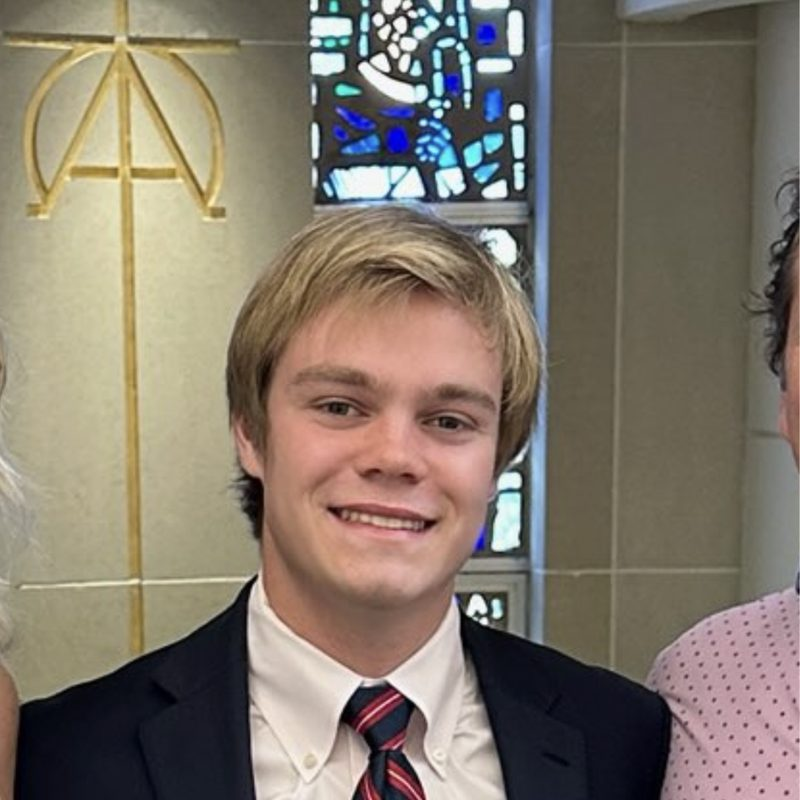
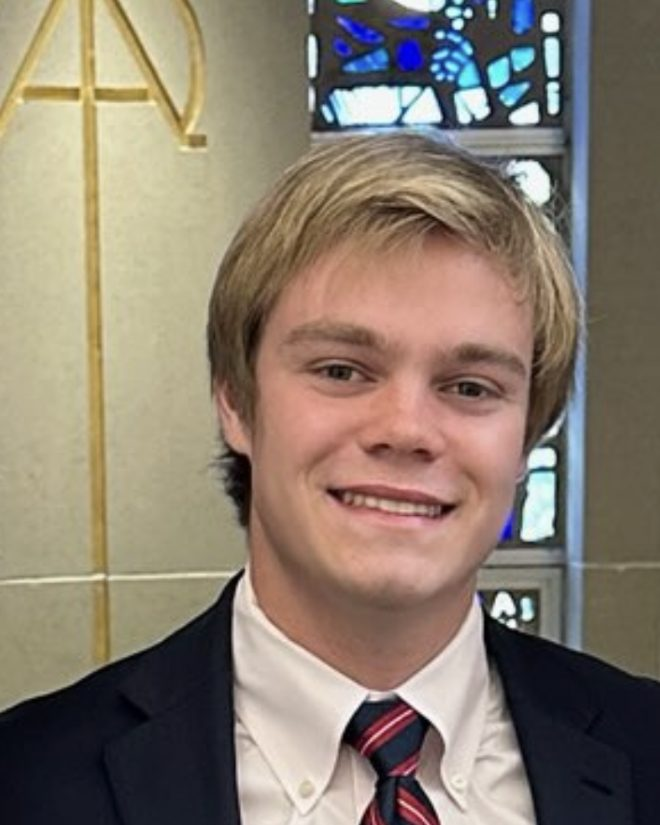
Recrop headshot; move Dorm Scoreboard to #4

diff --git a/index.html b/index.html
@@ -13,7 +13,7 @@
 <section id="about" class="about"><div class="about-txt reveal"><h2>About</h2>
 <p>I build hardware and software, mostly on my own time. My projects include an autonomous payload-delivery drone and a published Windows app. I&#x27;m looking for aerospace, maritime, and manufacturing engineering internships.</p>
 <ul class="chips"><li>Onshape</li><li>3D printing</li><li>Soldering</li><li>Raspberry Pi</li><li>Arduino</li><li>Python</li><li>Excel</li><li>AI coding tools</li></ul></div><img class="headshot reveal" src="media/site/headshot.jpg" alt="Ben Ratterree"></section>
-<section id="projects" class="projects"><h2 class="sec reveal">Projects</h2><a class="prow reveal" href="projects/drone.html"><div class="pimg"><img src="media/drone/1.jpg" alt="Autonomous Payload Delivery Drone" loading="lazy"></div><div class="ptxt"><span class="num">01</span><h3>Autonomous Payload Delivery Drone</h3><p class="meta">June 2026 – Present · In progress · Personal project</p><p>I built this drone from scratch using purchased parts and parts I designed and built using 3D printing/CAD.</p><span class="more">View project <span aria-hidden="true">→</span></span></div></a><a class="prow reveal" href="projects/earthrise.html"><div class="pimg"><img src="media/earthrise/1.jpg" alt="Earthrise" loading="lazy"></div><div class="ptxt"><span class="num">02</span><h3>Earthrise</h3><p class="meta">Published July 3, 2026 · Microsoft Store: https://apps.microsoft.com/detail/9N0VSG1P4VKQ</p><p>Earthrise is a Windows wallpaper app I published on the Microsoft Store. It combines public live satellite imagery with a computed starfield to make realistic desktop backgrounds.</p><span class="more">View project <span aria-hidden="true">→</span></span></div></a><a class="prow reveal" href="projects/pool.html"><div class="pimg"><img src="media/pool/1.jpg" alt="Arduino Pool Equipment Controller" loading="lazy"></div><div class="ptxt"><span class="num">03</span><h3>Arduino Pool Equipment Controller</h3><p class="meta">June–July 2025. Project completed and tested. Ran without flaws for at least 12 months</p><p>The official Pentair acid pump controller had burned out twice before on our pool due to an undersized wire carrying more current than it should have and instead of buying a 3rd $300 controller I built a full controller for under $60.</p><span class="more">View project <span aria-hidden="true">→</span></span></div></a><a class="prow reveal" href="projects/boat.html"><div class="pimg"><img src="media/boat/1.jpg" alt="Custom RC Boat" loading="lazy"></div><div class="ptxt"><span class="num">04</span><h3>Custom RC Boat</h3><p class="meta">August 2021–March 2022 · Personal project</p><p>I built a remote-control boat powered by a modified gas string-trimmer engine.</p><span class="more">View project <span aria-hidden="true">→</span></span></div></a><a class="prow reveal" href="projects/solar.html"><div class="pimg"><img src="media/solar/1.jpg" alt="Off-Grid Solar Lighting System" loading="lazy"></div><div class="ptxt"><span class="num">05</span><h3>Off-Grid Solar Lighting System</h3><p class="meta">April 2022 · Project for my Boy Scout troop’s trailer</p><p>I built a solar-powered, off-grid 12 V lighting system.</p><span class="more">View project <span aria-hidden="true">→</span></span></div></a><a class="prow reveal" href="projects/bike.html"><div class="pimg"><img src="media/bike/1.jpg" alt="Car Horn for My Bike with Custom Battery" loading="lazy"></div><div class="ptxt"><span class="num">06</span><h3>Car Horn for My Bike with Custom Battery</h3><p class="meta">2023 · Personal project</p><p>I put a car horn on my bicycle so I could honk at my friends and built a custom 18650 lithium-ion battery pack to power it.</p><span class="more">View project <span aria-hidden="true">→</span></span></div></a><a class="prow reveal" href="projects/scoreboard.html"><div class="pimg"><img src="media/scoreboard/1.jpg" alt="Wi-Fi Enabled Dorm Scoreboard" loading="lazy"></div><div class="ptxt"><span class="num">07</span><h3>Wi-Fi Enabled Dorm Scoreboard</h3><p class="meta">September 2025–May 2026.</p><p>I built 4 custom 7-segment displays in my dorm windows to display the Aggie football score and to be used as a clock in the off season.</p><span class="more">View project <span aria-hidden="true">→</span></span></div></a></section>
+<section id="projects" class="projects"><h2 class="sec reveal">Projects</h2><a class="prow reveal" href="projects/drone.html"><div class="pimg"><img src="media/drone/1.jpg" alt="Autonomous Payload Delivery Drone" loading="lazy"></div><div class="ptxt"><span class="num">01</span><h3>Autonomous Payload Delivery Drone</h3><p class="meta">June 2026 – Present · In progress · Personal project</p><p>I built this drone from scratch using purchased parts and parts I designed and built using 3D printing/CAD.</p><span class="more">View project <span aria-hidden="true">→</span></span></div></a><a class="prow reveal" href="projects/earthrise.html"><div class="pimg"><img src="media/earthrise/1.jpg" alt="Earthrise" loading="lazy"></div><div class="ptxt"><span class="num">02</span><h3>Earthrise</h3><p class="meta">Published July 3, 2026 · Microsoft Store: https://apps.microsoft.com/detail/9N0VSG1P4VKQ</p><p>Earthrise is a Windows wallpaper app I published on the Microsoft Store. It combines public live satellite imagery with a computed starfield to make realistic desktop backgrounds.</p><span class="more">View project <span aria-hidden="true">→</span></span></div></a><a class="prow reveal" href="projects/pool.html"><div class="pimg"><img src="media/pool/1.jpg" alt="Arduino Pool Equipment Controller" loading="lazy"></div><div class="ptxt"><span class="num">03</span><h3>Arduino Pool Equipment Controller</h3><p class="meta">June–July 2025. Project completed and tested. Ran without flaws for at least 12 months</p><p>The official Pentair acid pump controller had burned out twice before on our pool due to an undersized wire carrying more current than it should have and instead of buying a 3rd $300 controller I built a full controller for under $60.</p><span class="more">View project <span aria-hidden="true">→</span></span></div></a><a class="prow reveal" href="projects/scoreboard.html"><div class="pimg"><img src="media/scoreboard/1.jpg" alt="Wi-Fi Enabled Dorm Scoreboard" loading="lazy"></div><div class="ptxt"><span class="num">04</span><h3>Wi-Fi Enabled Dorm Scoreboard</h3><p class="meta">September 2025–May 2026.</p><p>I built 4 custom 7-segment displays in my dorm windows to display the Aggie football score and to be used as a clock in the off season.</p><span class="more">View project <span aria-hidden="true">→</span></span></div></a><a class="prow reveal" href="projects/boat.html"><div class="pimg"><img src="media/boat/1.jpg" alt="Custom RC Boat" loading="lazy"></div><div class="ptxt"><span class="num">05</span><h3>Custom RC Boat</h3><p class="meta">August 2021–March 2022 · Personal project</p><p>I built a remote-control boat powered by a modified gas string-trimmer engine.</p><span class="more">View project <span aria-hidden="true">→</span></span></div></a><a class="prow reveal" href="projects/solar.html"><div class="pimg"><img src="media/solar/1.jpg" alt="Off-Grid Solar Lighting System" loading="lazy"></div><div class="ptxt"><span class="num">06</span><h3>Off-Grid Solar Lighting System</h3><p class="meta">April 2022 · Project for my Boy Scout troop’s trailer</p><p>I built a solar-powered, off-grid 12 V lighting system.</p><span class="more">View project <span aria-hidden="true">→</span></span></div></a><a class="prow reveal" href="projects/bike.html"><div class="pimg"><img src="media/bike/1.jpg" alt="Car Horn for My Bike with Custom Battery" loading="lazy"></div><div class="ptxt"><span class="num">07</span><h3>Car Horn for My Bike with Custom Battery</h3><p class="meta">2023 · Personal project</p><p>I put a car horn on my bicycle so I could honk at my friends and built a custom 18650 lithium-ion battery pack to power it.</p><span class="more">View project <span aria-hidden="true">→</span></span></div></a></section>
 <section class="also reveal"><h2 class="sec">Beyond the workbench</h2><ul class="rules"><li>Eagle Scout, December 2025</li><li>Texas A&amp;M Sailing Team</li><li>FAA Student Pilot, 18 logged flight hours</li></ul></section>
 </main><footer id="contact"><div class="inner"><h2>Contact</h2>
 <p><a href="mailto:benratterree@tamu.edu">benratterree@tamu.edu</a></p>

diff --git a/projects/drone.html b/projects/drone.html
@@ -19,7 +19,7 @@
 
 </article>
 <div class="gal-wrap"><h2 class="sec">Photos</h2><div id="gallery" class="gallery"><figure class="reveal"><button type="button" aria-label="Enlarge photo 1"><img src="../media/drone/1.jpg" width="1600" height="1600" alt="Autonomous Payload Delivery Drone photo 1" loading="lazy"></button></figure><figure class="reveal"><button type="button" aria-label="Enlarge photo 2"><img src="../media/drone/2.jpg" width="1600" height="1600" alt="Dual GPS reduces the chance of GPS-loss-induced crash and increases positional accuracy, the GPS modules also have their own compasses bringing the total number to 3 which helps reduce compass error from high current in the motors." loading="lazy"></button><figcaption>Dual GPS reduces the chance of GPS-loss-induced crash and increases positional accuracy, the GPS modules also have their own compasses bringing the total number to 3 which helps reduce compass error from high current in the motors.</figcaption></figure><figure class="reveal"><button type="button" aria-label="Enlarge photo 3"><img src="../media/drone/3.jpg" width="1200" height="1600" alt="Early version of the drone only had one GPS and I put it on a mast to keep it away from electrical interference caused by the motors." loading="lazy"></button><figcaption>Early version of the drone only had one GPS and I put it on a mast to keep it away from electrical interference caused by the motors.</figcaption></figure></div></div>
-<nav class="pager"><a href="scoreboard.html"><small>Previous</small>Wi-Fi Enabled Dorm Scoreboard</a><a href="earthrise.html"><small>Next</small>Earthrise</a></nav>
+<nav class="pager"><a href="bike.html"><small>Previous</small>Car Horn for My Bike with Custom Battery</a><a href="earthrise.html"><small>Next</small>Earthrise</a></nav>
 </main><footer id="contact"><div class="inner"><h2>Contact</h2>
 <p><a href="mailto:benratterree@tamu.edu">benratterree@tamu.edu</a></p>
 <p><a href="https://www.linkedin.com/in/ben-ratterree-34564028a/" target="_blank" rel="noopener">LinkedIn</a></p>

diff --git a/projects/scoreboard.html b/projects/scoreboard.html
@@ -23,7 +23,7 @@
 
 </article>
 <div class="gal-wrap"><h2 class="sec">Photos</h2><div id="gallery" class="gallery"><figure class="reveal"><button type="button" aria-label="Enlarge photo 1"><img src="../media/scoreboard/1.jpg" width="1600" height="1200" alt="Wi-Fi Enabled Dorm Scoreboard photo 1" loading="lazy"></button></figure><figure class="reveal"><button type="button" aria-label="Enlarge photo 2"><img src="../media/scoreboard/2.jpg" width="1600" height="1600" alt="Relays for 2.5 of the displays." loading="lazy"></button><figcaption>Relays for 2.5 of the displays.</figcaption></figure><figure class="reveal"><button type="button" aria-label="Enlarge photo 3"><img src="../media/scoreboard/3.jpg" width="1200" height="1600" alt="The full compute and relay system." loading="lazy"></button><figcaption>The full compute and relay system.</figcaption></figure><figure class="reveal"><button type="button" aria-label="Enlarge photo 4"><img src="../media/scoreboard/4.jpg" width="1600" height="1600" alt="The damage from the faulty circuit board." loading="lazy"></button><figcaption>The damage from the faulty circuit board.</figcaption></figure></div></div>
-<nav class="pager"><a href="bike.html"><small>Previous</small>Car Horn for My Bike with Custom Battery</a><a href="drone.html"><small>Next</small>Autonomous Payload Delivery Drone</a></nav>
+<nav class="pager"><a href="pool.html"><small>Previous</small>Arduino Pool Equipment Controller</a><a href="boat.html"><small>Next</small>Custom RC Boat</a></nav>
 </main><footer id="contact"><div class="inner"><h2>Contact</h2>
 <p><a href="mailto:benratterree@tamu.edu">benratterree@tamu.edu</a></p>
 <p><a href="https://www.linkedin.com/in/ben-ratterree-34564028a/" target="_blank" rel="noopener">LinkedIn</a></p>

diff --git a/projects/pool.html b/projects/pool.html
@@ -24,7 +24,7 @@
 
 </article>
 <div class="gal-wrap"><h2 class="sec">Photos</h2><div id="gallery" class="gallery"><figure class="reveal"><button type="button" aria-label="Enlarge photo 1"><img src="../media/pool/1.jpg" width="1200" height="1600" alt="Arduino Pool Equipment Controller photo 1" loading="lazy"></button></figure><figure class="reveal"><button type="button" aria-label="Enlarge photo 2"><img src="../media/pool/2.jpg" width="1200" height="1600" alt="Arduino Pool Equipment Controller photo 2" loading="lazy"></button></figure><figure class="reveal"><button type="button" aria-label="Enlarge photo 3"><img src="../media/pool/3.jpg" width="1200" height="1600" alt="test bench for decoding the datastream from the equipment by listening to the data stream at the indoor control unit." loading="lazy"></button><figcaption>test bench for decoding the datastream from the equipment by listening to the data stream at the indoor control unit.</figcaption></figure></div></div>
-<nav class="pager"><a href="earthrise.html"><small>Previous</small>Earthrise</a><a href="boat.html"><small>Next</small>Custom RC Boat</a></nav>
+<nav class="pager"><a href="earthrise.html"><small>Previous</small>Earthrise</a><a href="scoreboard.html"><small>Next</small>Wi-Fi Enabled Dorm Scoreboard</a></nav>
 </main><footer id="contact"><div class="inner"><h2>Contact</h2>
 <p><a href="mailto:benratterree@tamu.edu">benratterree@tamu.edu</a></p>
 <p><a href="https://www.linkedin.com/in/ben-ratterree-34564028a/" target="_blank" rel="noopener">LinkedIn</a></p>

diff --git a/projects/bike.html b/projects/bike.html
@@ -21,7 +21,7 @@
 
 </article>
 <div class="gal-wrap"><h2 class="sec">Photos</h2><div id="gallery" class="gallery"><figure class="reveal"><button type="button" aria-label="Enlarge photo 1"><img src="../media/bike/1.jpg" width="1200" height="1600" alt="Car Horn for My Bike with Custom Battery photo 1" loading="lazy"></button></figure><figure class="reveal"><button type="button" aria-label="Enlarge photo 2"><img src="../media/bike/2.jpg" width="1201" height="1600" alt="The custom 18650 battery pack wired in series using old cells from a cell phone charger." loading="lazy"></button><figcaption>The custom 18650 battery pack wired in series using old cells from a cell phone charger.</figcaption></figure></div></div>
-<nav class="pager"><a href="solar.html"><small>Previous</small>Off-Grid Solar Lighting System</a><a href="scoreboard.html"><small>Next</small>Wi-Fi Enabled Dorm Scoreboard</a></nav>
+<nav class="pager"><a href="solar.html"><small>Previous</small>Off-Grid Solar Lighting System</a><a href="drone.html"><small>Next</small>Autonomous Payload Delivery Drone</a></nav>
 </main><footer id="contact"><div class="inner"><h2>Contact</h2>
 <p><a href="mailto:benratterree@tamu.edu">benratterree@tamu.edu</a></p>
 <p><a href="https://www.linkedin.com/in/ben-ratterree-34564028a/" target="_blank" rel="noopener">LinkedIn</a></p>

diff --git a/projects/boat.html b/projects/boat.html
@@ -22,7 +22,7 @@
 
 </article>
 <div class="gal-wrap"><h2 class="sec">Photos</h2><div id="gallery" class="gallery"><figure class="reveal"><button type="button" aria-label="Enlarge photo 1"><img src="../media/boat/1.jpg" width="1200" height="1600" alt="Custom RC Boat photo 1" loading="lazy"></button></figure><figure class="reveal"><button type="button" aria-label="Enlarge photo 2"><img src="../media/boat/2.jpg" width="1200" height="1600" alt="Custom RC Boat photo 2" loading="lazy"></button></figure><figure class="reveal"><button type="button" aria-label="Enlarge photo 3"><img src="../media/boat/3.jpg" width="1200" height="1600" alt="Custom RC Boat photo 3" loading="lazy"></button></figure></div></div>
-<nav class="pager"><a href="pool.html"><small>Previous</small>Arduino Pool Equipment Controller</a><a href="solar.html"><small>Next</small>Off-Grid Solar Lighting System</a></nav>
+<nav class="pager"><a href="scoreboard.html"><small>Previous</small>Wi-Fi Enabled Dorm Scoreboard</a><a href="solar.html"><small>Next</small>Off-Grid Solar Lighting System</a></nav>
 </main><footer id="contact"><div class="inner"><h2>Contact</h2>
 <p><a href="mailto:benratterree@tamu.edu">benratterree@tamu.edu</a></p>
 <p><a href="https://www.linkedin.com/in/ben-ratterree-34564028a/" target="_blank" rel="noopener">LinkedIn</a></p>
